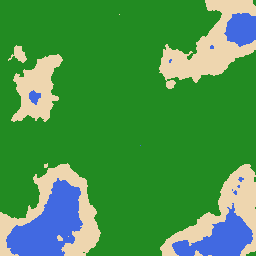
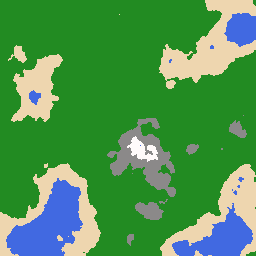
updated images

diff --git a/TerrainGen.py b/TerrainGen.py
@@ -43,11 +43,11 @@ def GeneratePerlinNoise_3D_From2D(WorldSize, scale=100.0, octaves=6, persistence
 
 # Driver Code
 # Params
-WorldSize = (512, 512)
+WorldSize = (256, 256)
 
 GenFunc = functools.partial(GeneratePerlinNoise_2D, scale=100.0, octaves=6, persistence=0.5, lacunarity=2.0, base=0)
 
-MaskFunc = functools.partial(Utils.Mask_CircularSmooth, r=0.75, s1=2.0, s2=200)
+MaskFunc = None#functools.partial(Utils.Mask_CircularSmooth, r=0.75, s1=2.0, s2=200)
 
 ColoriseFunc = functools.partial(Utils.ColoriseTerrain2D_ArchipelagoSimple, thresholds=[0.25, 0.4, 0.85, 0.95])
 
